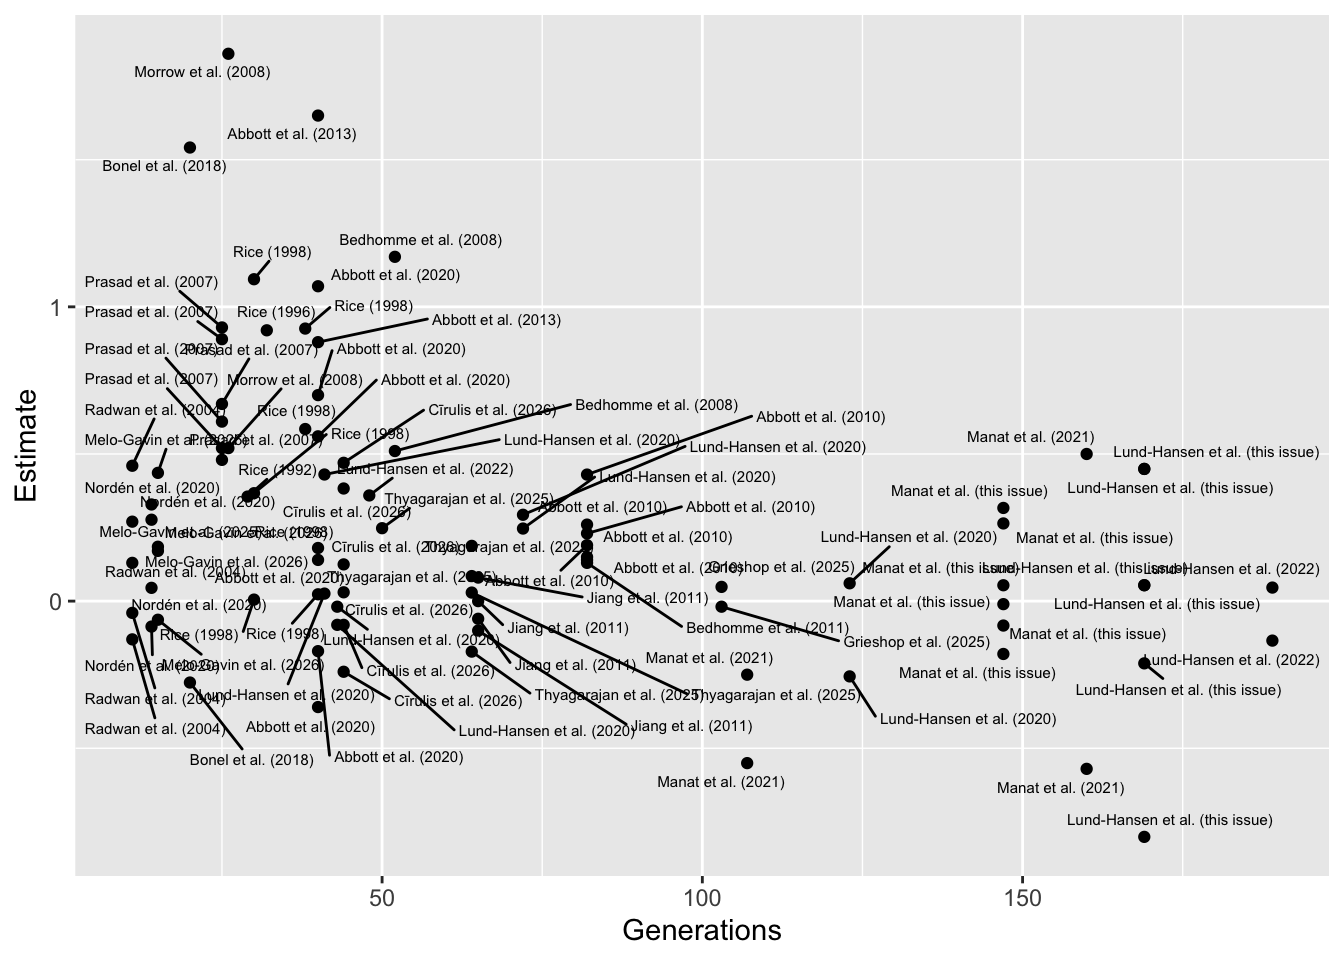
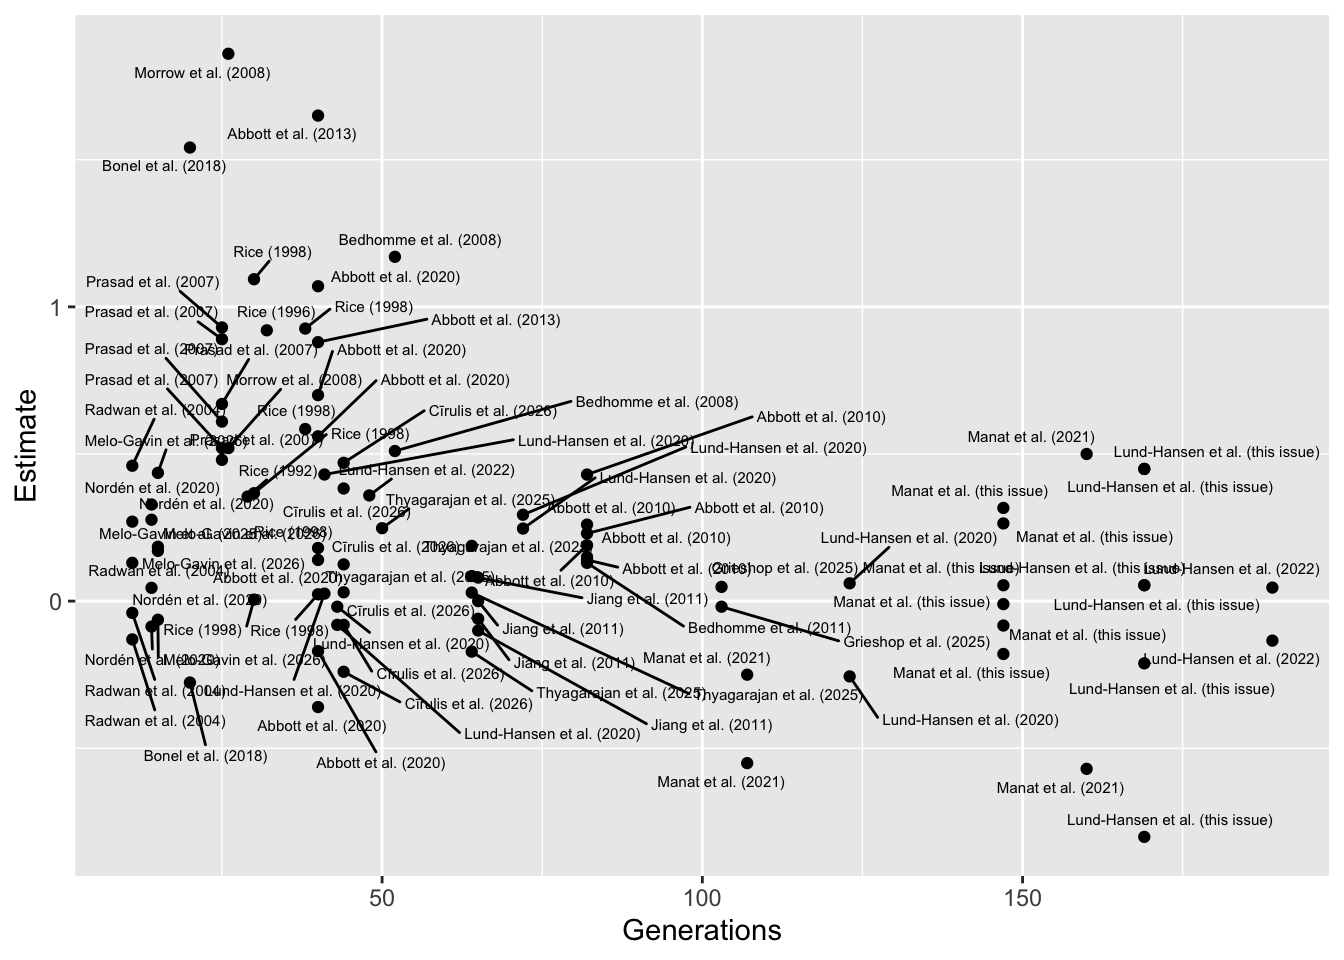
Build site.

diff --git a/docs/meta_analysis.html b/docs/meta_analysis.html
@@ -418,7 +418,7 @@ class="glyphicon glyphicon-ok text-success" aria-hidden="true"></span>
 <div class="tab-content">
 <div id="summary" class="tab-pane fade in active">
 <p>
-<strong>Last updated:</strong> 2026-07-06
+<strong>Last updated:</strong> 2026-07-07
 </p>
 <p>
 <strong>Checks:</strong> <span
@@ -549,15 +549,15 @@ project makes it easier to run your code on other machines.</p>
 <div class="panel panel-default">
 <div class="panel-heading">
 <p class="panel-title">
-<a data-toggle="collapse" data-parent="#workflowr-checks" href="#strongRepositoryversionstrongahrefhttpsgithubcomlukeholmanexpevolmetaanalysistree9737c67282e3a85c9acd84f9a46b46b7c94ef593targetblank9737c67a">
+<a data-toggle="collapse" data-parent="#workflowr-checks" href="#strongRepositoryversionstrongahrefhttpsgithubcomlukeholmanexpevolmetaanalysistree87848b2048b0c789ecd4ee185357ea848bf7f83btargetblank87848b2a">
 <span class="glyphicon glyphicon-ok text-success"
 aria-hidden="true"></span> <strong>Repository version:</strong>
-<a href="https://github.com/lukeholman/exp_evol_metaanalysis/tree/9737c67282e3a85c9acd84f9a46b46b7c94ef593" target="_blank">9737c67</a>
+<a href="https://github.com/lukeholman/exp_evol_metaanalysis/tree/87848b2048b0c789ecd4ee185357ea848bf7f83b" target="_blank">87848b2</a>
 </a>
 </p>
 </div>
 <div
[2 lines of base64/hex data omitted]
 class="panel-collapse collapse">
 <div class="panel-body">
 <p>
@@ -567,7 +567,7 @@ reproducibility.
 </p>
 <p>
 The results in this page were generated with repository version
-<a href="https://github.com/lukeholman/exp_evol_metaanalysis/tree/9737c67282e3a85c9acd84f9a46b46b7c94ef593" target="_blank">9737c67</a>.
+<a href="https://github.com/lukeholman/exp_evol_metaanalysis/tree/87848b2048b0c789ecd4ee185357ea848bf7f83b" target="_blank">87848b2</a>.
 See the <em>Past versions</em> tab to see a history of the changes made
 to the R Markdown and HTML files.
 </p>
@@ -608,7 +608,7 @@ Ignored files:
     Ignored:    input_data/lundhansen2020_github_data_FLXevoexp-master/ThoraxSizeGeneration72/.Rapp.history
 
 Unstaged changes:
-    Modified:   effect_sizes/manat_4.csv
+    Deleted:    figure_2.pdf
 
 </code></pre>
 <p>
@@ -653,6 +653,40 @@ Message
 </tr>
 </thead>
 <tbody>
+<tr>
+<td>
+Rmd
+</td>
+<td>
+<a href="https://github.com/lukeholman/exp_evol_metaanalysis/blob/87848b2048b0c789ecd4ee185357ea848bf7f83b/analysis/meta_analysis.Rmd" target="_blank">87848b2</a>
+</td>
+<td>
+luekholman
+</td>
+<td>
+2026-07-07
+</td>
+<td>
+wflow_publish("analysis/meta_analysis.Rmd")
+</td>
+</tr>
+<tr>
+<td>
+html
+</td>
+<td>
+<a href="https://rawcdn.githack.com/lukeholman/exp_evol_metaanalysis/6768164388c38a9c460104982048c85abfd2e07b/docs/meta_analysis.html" target="_blank">6768164</a>
+</td>
+<td>
+luekholman
+</td>
+<td>
+2026-07-06
+</td>
+<td>
+Build site.
+</td>
+</tr>
 <tr>
 <td>
 html
@@ -2440,7 +2474,7 @@ meta_plot &lt;- plot_data %&gt;%
                                &quot;1&quot; = &quot;grey50&quot;)) +
   guides(fill = &quot;none&quot;)
 
-ggsave(meta_plot, height=7.96, width=6, filename = &quot;figure_2.pdf&quot;)
+ggsave(meta_plot, height=7.96, width=6, filename = &quot;figure_2.svg&quot;)
 meta_plot</code></pre>
 <p><img src="figure/meta_analysis.Rmd/unnamed-chunk-9-1.png" alt="" width="576" style="display: block; margin: auto;" /></p>
 <p>
@@ -2465,6 +2499,17 @@ Date
 </tr>
 </thead>
 <tbody>
+<tr>
+<td>
+<a href="https://github.com/lukeholman/exp_evol_metaanalysis/blob/6768164388c38a9c460104982048c85abfd2e07b/docs/figure/meta_analysis.Rmd/unnamed-chunk-9-1.png" target="_blank">6768164</a>
+</td>
+<td>
+luekholman
+</td>
+<td>
+2026-07-06
+</td>
+</tr>
 <tr>
 <td>
 <a href="https://github.com/lukeholman/exp_evol_metaanalysis/blob/4c427b4af272077719af606533010438a6441901/docs/figure/meta_analysis.Rmd/unnamed-chunk-9-1.png" target="_blank">4c427b4</a>
@@ -2782,6 +2827,17 @@ Date
 </tr>
 </thead>
 <tbody>
+<tr>
+<td>
+<a href="https://github.com/lukeholman/exp_evol_metaanalysis/blob/6768164388c38a9c460104982048c85abfd2e07b/docs/figure/meta_analysis.Rmd/unnamed-chunk-10-1.png" target="_blank">6768164</a>
+</td>
+<td>
+luekholman
+</td>
+<td>
+2026-07-06
+</td>
+</tr>
 <tr>
 <td>
 <a href="https://github.com/lukeholman/exp_evol_metaanalysis/blob/4c427b4af272077719af606533010438a6441901/docs/figure/meta_analysis.Rmd/unnamed-chunk-10-1.png" target="_blank">4c427b4</a>
